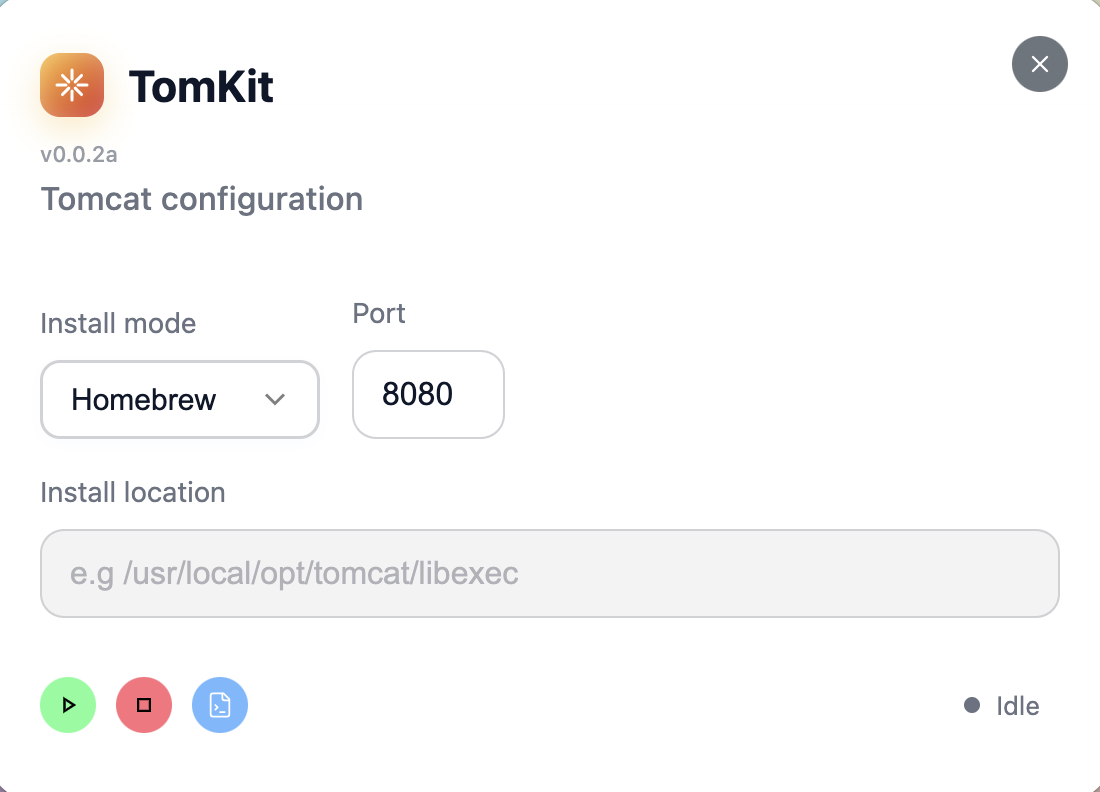
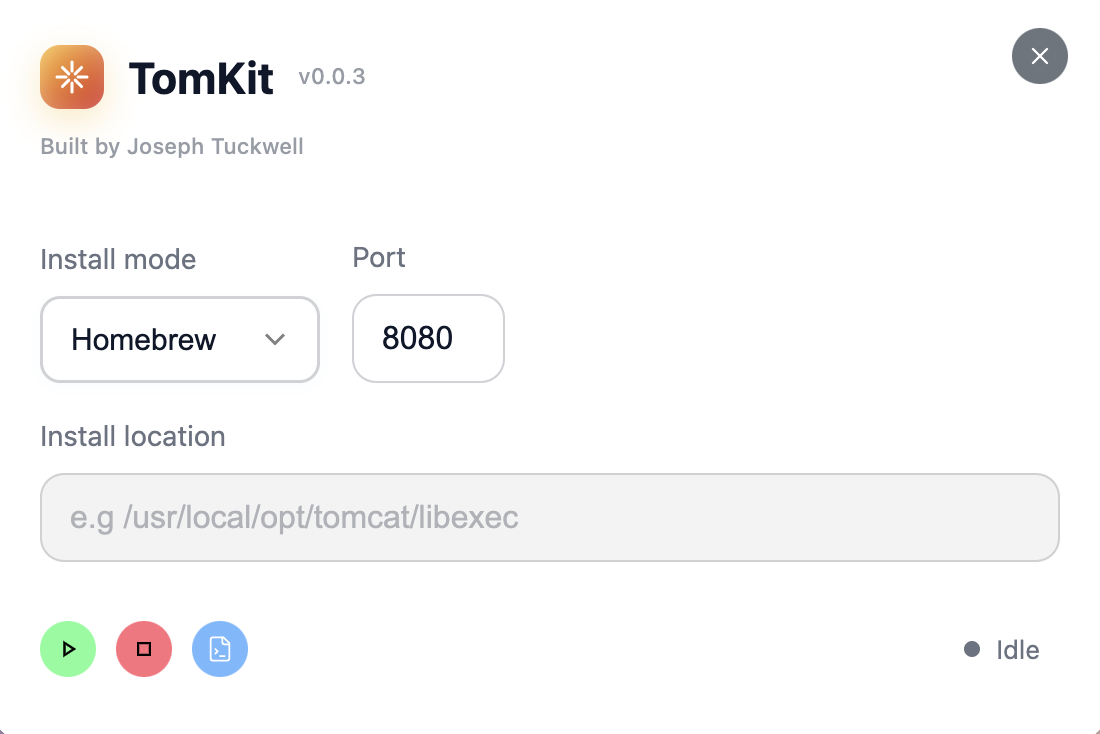
Layout changes and improvements

diff --git a/app/public/index.html b/app/public/index.html
@@ -16,15 +16,17 @@
           </svg>
         </span>
         TomKit
+      <span class="version" id="version">v0.0.0</span>
       </h1>
+
+      <span class="version">Built by Joseph Tuckwell</span>
       <button type="button" class="quit-button" id="quitButton" title="Quit">
         <svg xmlns="http://www.w3.org/2000/svg" width="16" height="16" viewBox="0 0 24 24" fill="none" stroke="currentColor" stroke-width="2" stroke-linecap="round" stroke-linejoin="round">
           <line x1="18" y1="6" x2="6" y2="18"></line>
           <line x1="6" y1="6" x2="18" y2="18"></line>
         </svg>
       </button>
-        <span class="version" id="version">v0.0.0</span>
-      <p class="subtitle">Tomcat configuration</p>
+
     </header>
 
      <!-- Main form for user input -->

diff --git a/app/public/stylesheets/main.css b/app/public/stylesheets/main.css
@@ -77,6 +77,7 @@
     }
 
     .subtitle {
+      font-size: 10px;
       margin: 0;
       color: var(--muted);
       font-weight: 500;
@@ -162,7 +163,7 @@
       min-width: 140px;
       max-width: 200px;
       display: inline-block;
-      padding: 10px 36px 10px 14px;
+      padding: 12px 36px 12px 14px;
       font-size: 15px;
       border-radius: 10px;
       border: 1.5px solid color-mix(in srgb, var(--muted) 32%, transparent);
